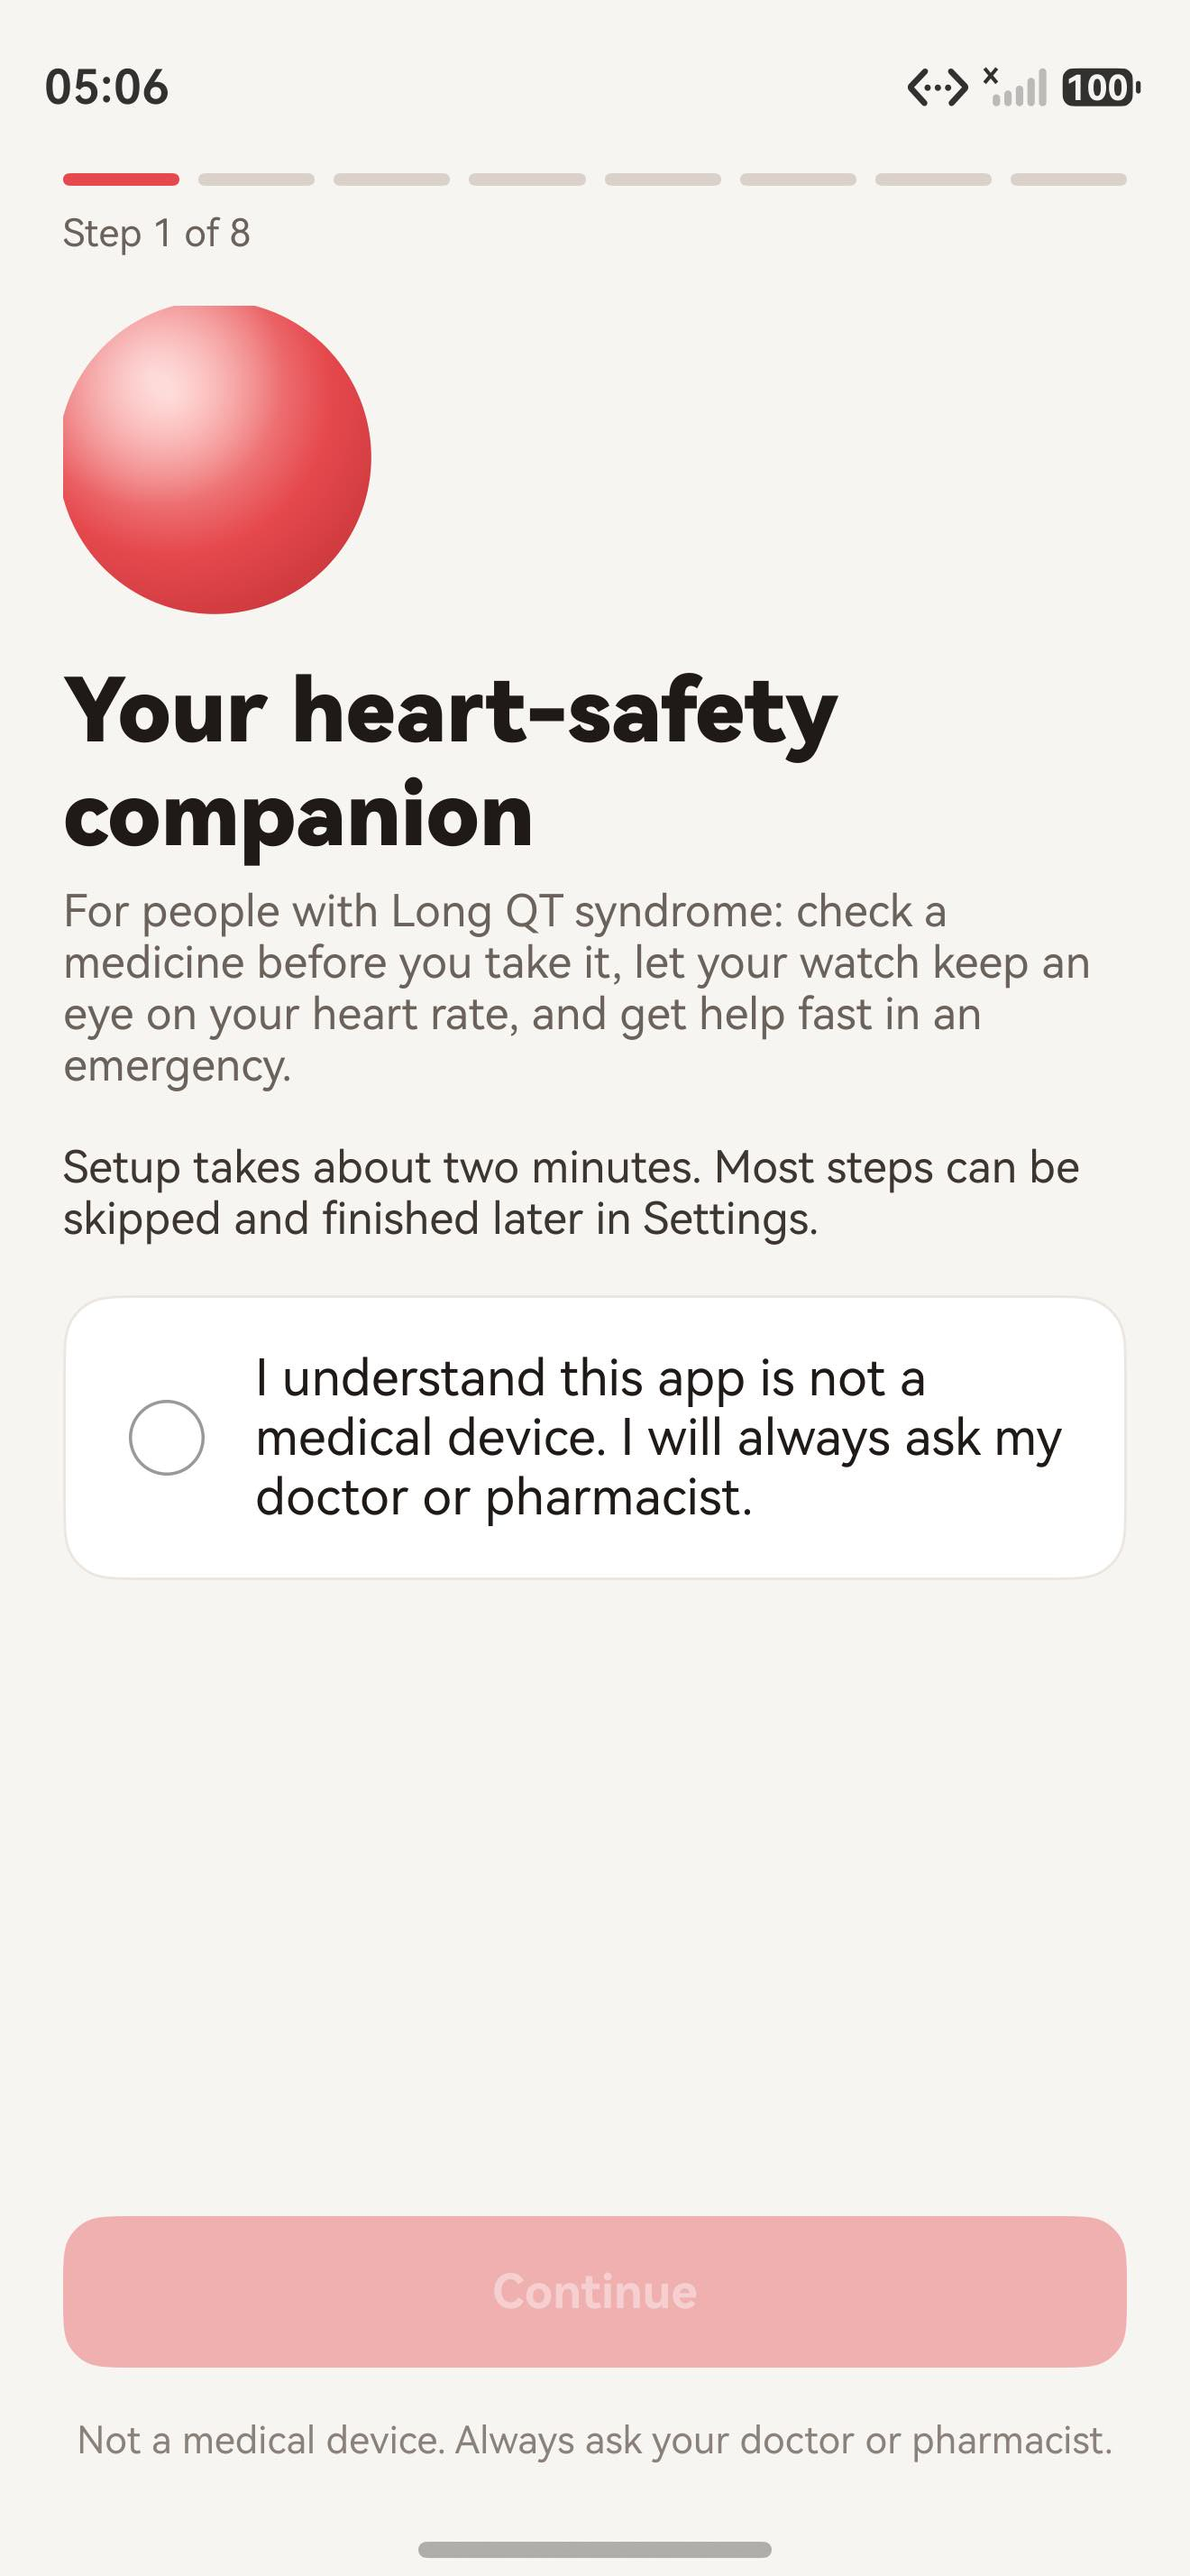
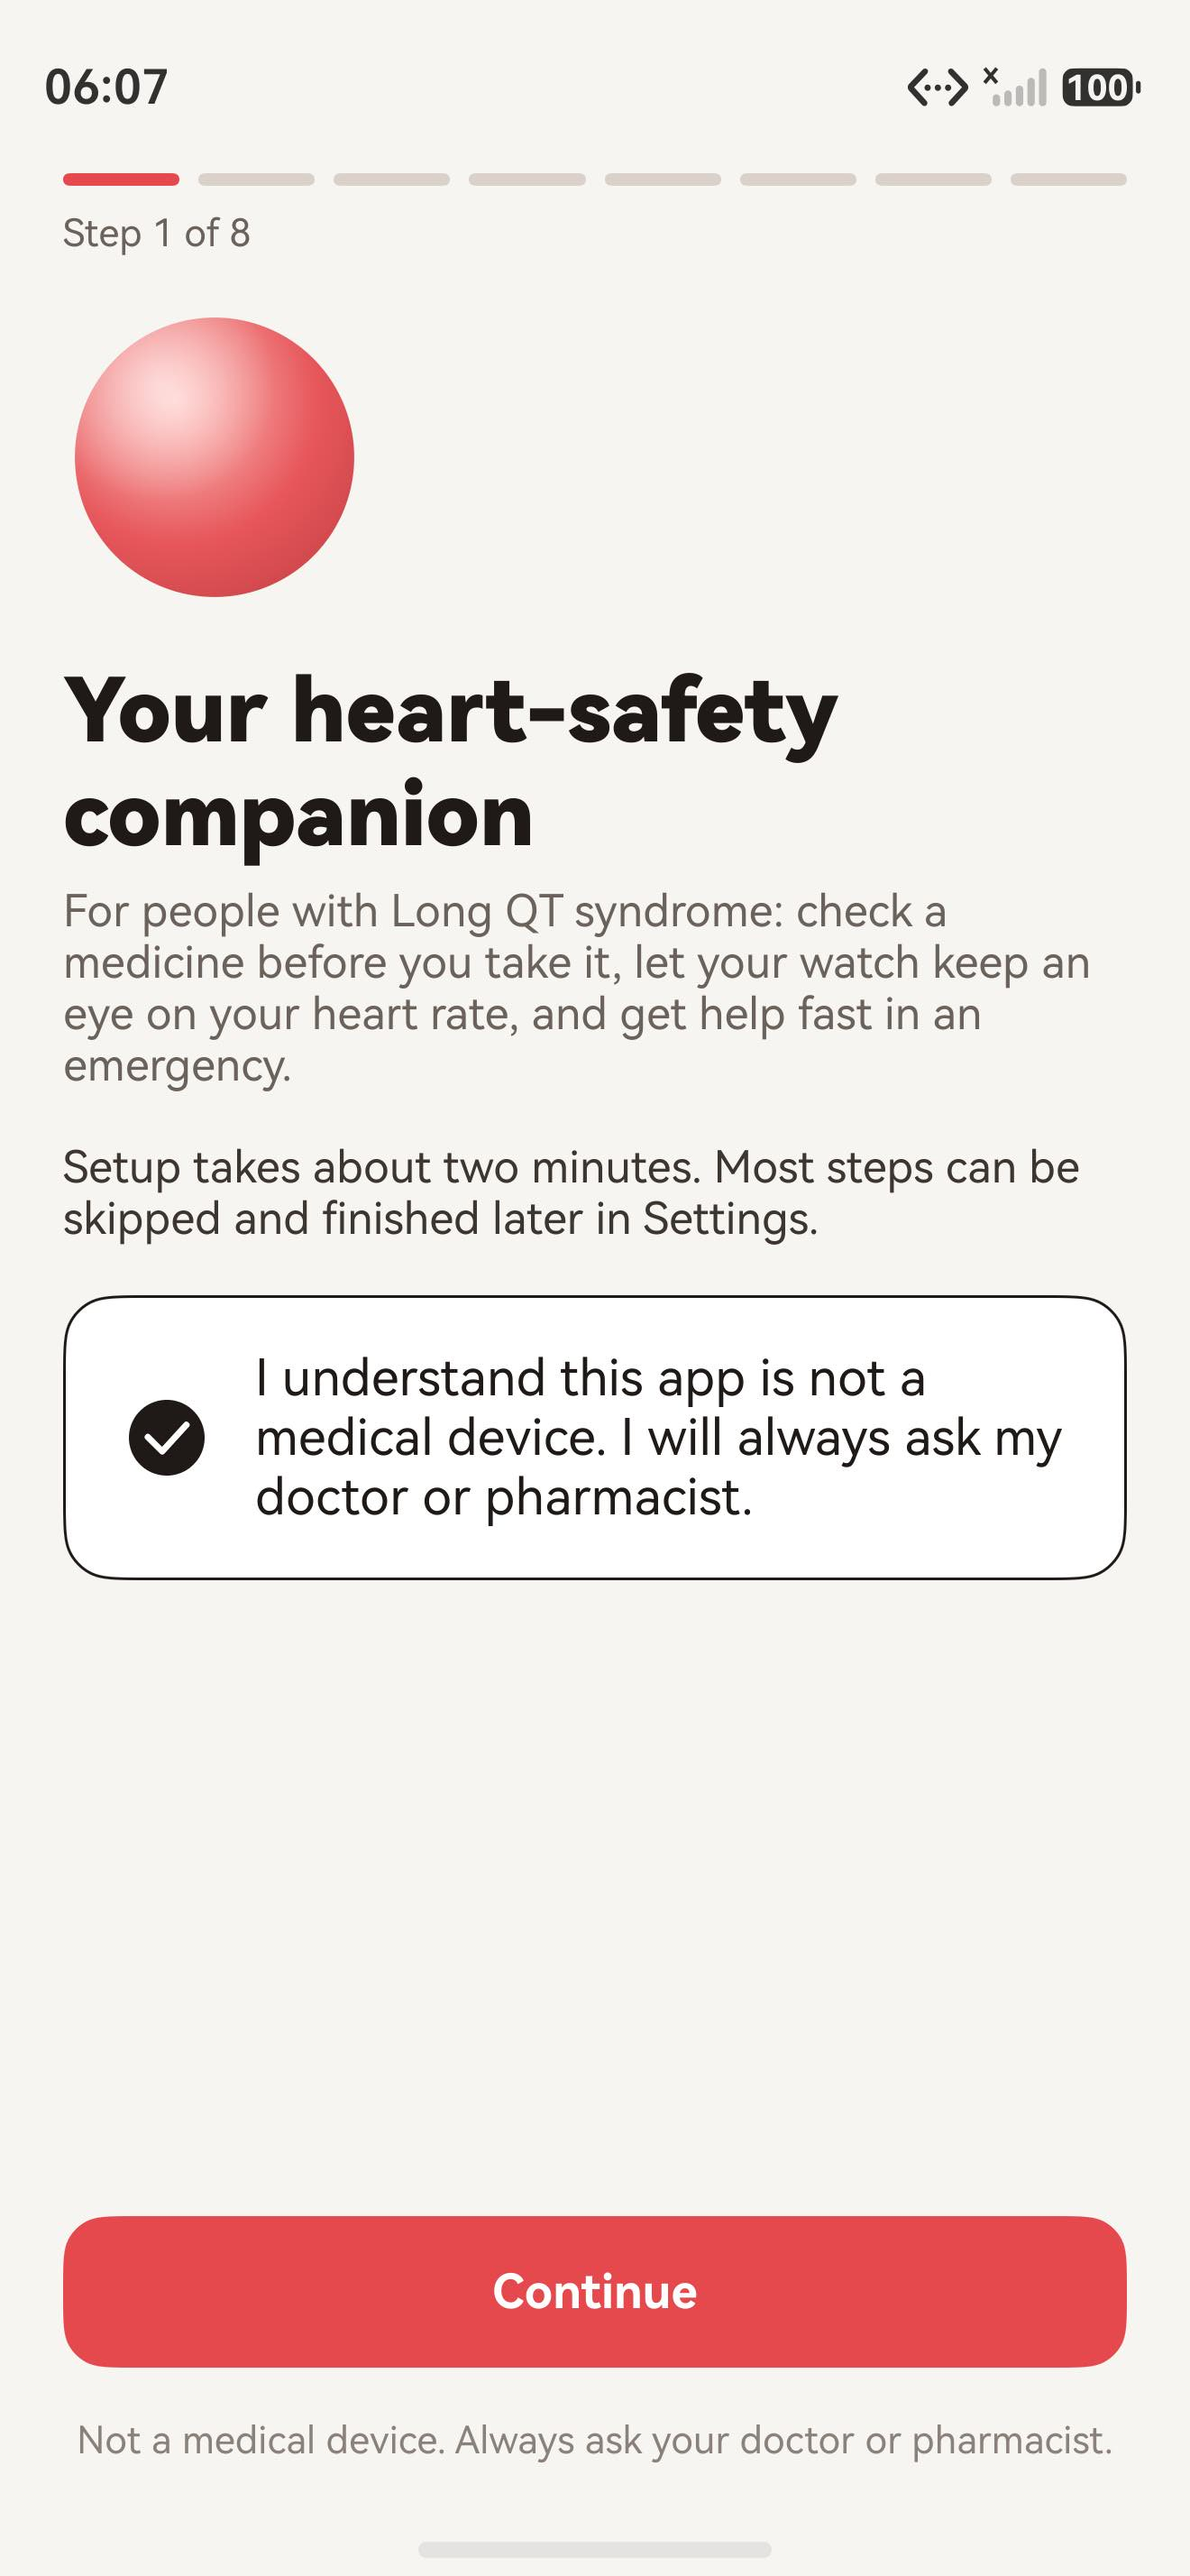
docs(onboarding): emulator verification, timing and step screenshots

diff --git a/docs/workflow/b-onboarding.md b/docs/workflow/b-onboarding.md
@@ -9,7 +9,25 @@
   (check/request notifications, microphone, location), `components/onboarding/` (`OnbParts`, `StepAbout`,
   `StepContacts`, `StepPermissions`), rewritten `pages/OnboardingPage.ets`, `string_onboarding.json`,
   `test/Onboarding.test.ets` (11 tests). `pages/Index.ets` no longer asks for notifications on every launch.
-- Validated: phone unit tests 222/222. Emulator run: see "Emulator" below.
+- Validated: phone unit tests 222/222. Emulator (phone, API 20 image, fresh install each time):
+  - Continue stays inactive until consent is ticked; one tap on the checkbox ticks it once.
+  - Every step shown with progress and "Step N of 8"; Skip on steps 2 and 4-8; the date picker fills date of birth;
+    ICD model field appears with the switch.
+  - A saved contact and a half-typed second name both survive Back → Continue.
+  - Permissions: no notification prompt at launch any more; each Allow opens its system dialog only on tap;
+    granted shows "Allowed", a denied microphone shows the Settings hint.
+  - Pair a watch opens the Pair watch page and Back returns to step 8; Finish lands on Home ("Hi Ola", LQT2 chip);
+    relaunch goes straight to Home.
+  - Timing: a scripted fresh-install run entering name, birth date, genotype, ICD + model, one medicine, one contact
+    and all three permission dialogs took **27 s** (app log: "onboarding took 29 s"). That is tap speed, not human
+    reading speed; with reading and typing by hand it is still well under the 2-minute target (14 inputs, 3 system
+    dialogs, nothing required beyond the consent tick).
+  - Screenshots: `docs/screenshots/b/onboarding-1-welcome.jpeg` … `onboarding-9-home.jpeg`
+    (+ `onboarding-7a-notification-dialog.jpeg`).
+- Found and fixed while testing: the last step still said "Continue". `components/Common.ets` `PrimaryButton`
+  passes its label to a by-value `@Builder`, which does not re-render when the label changes; the page now uses two
+  button instances. Every other caller of `PrimaryButton` with a changing label has the same bug (not fixed here —
+  Common.ets is Workstream A's; fix: pass `$$`-style by-reference params or rebuild the label in the struct).
 - Not validated: the account step and the emergency-details step run against S1's `AuthForm` and S2's
   `EmergencyDetailsForm` stubs; the real forms arrive at merge. The returning-user skip
   (`shouldFinishAfterSignIn`) is unit-tested, not run end to end (needs S1's ProfileSync).
